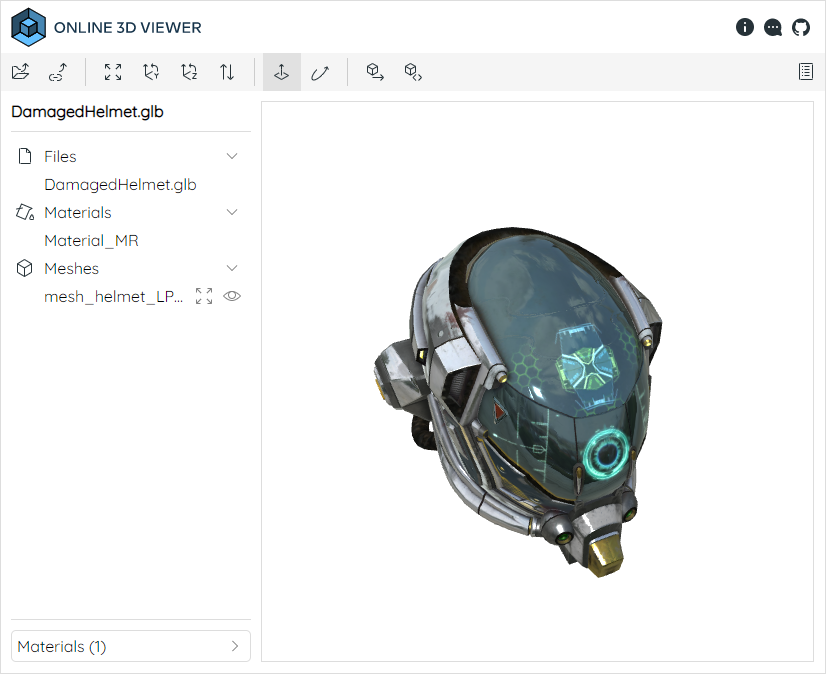
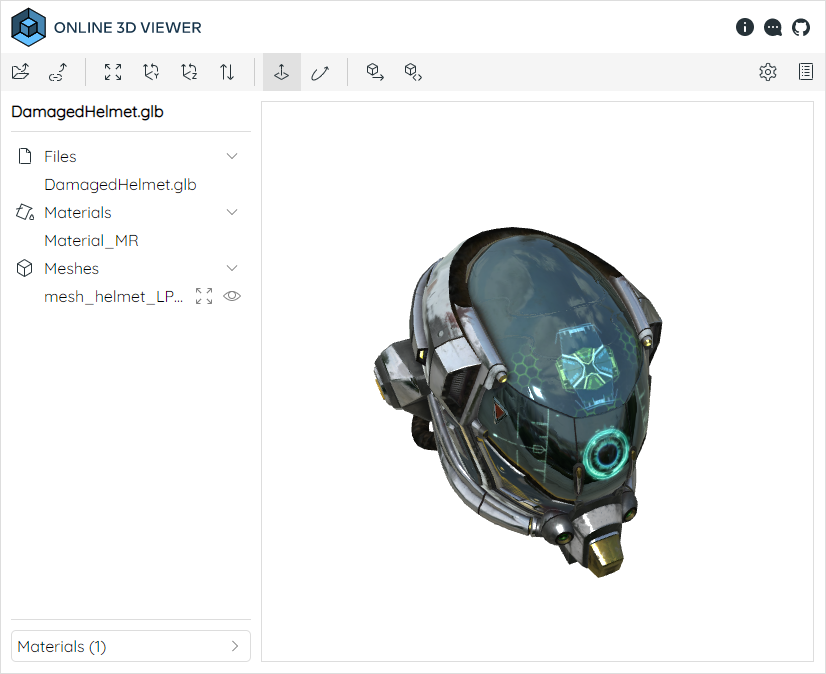
Add warning to setting panel.

diff --git a/website/o3dv/js/settingssidebarpanel.js b/website/o3dv/js/settingssidebarpanel.js
@@ -5,6 +5,7 @@ OV.SettingsSidebarPanel = class extends OV.SidebarPanel
         super (parentDiv);
         this.backgroundColorInput = null;
         this.defaultColorInput = null;
+        this.defaultColorWarning = null;
     }
 
     GetTitle ()
@@ -14,22 +15,24 @@ OV.SettingsSidebarPanel = class extends OV.SidebarPanel
 
     HidePopups ()
     {
-        this.backgroundColorInput.hide ();
-        this.defaultColorInput.hide ();
+        this.backgroundColorInput.pickr.hide ();
+        this.defaultColorInput.pickr.hide ();
     }
 
     InitSettings (settings, defaultSettings, callbacks)
     {
-        this.backgroundColorInput = this.AddColorParameters (
+        this.backgroundColorInput = this.AddColorParameter (
             'Background Color',
             'Changing the background color affects only the visualization.',
+            null,
             ['#ffffff', '#e3e3e3', '#c9c9c9', '#898989', '#5f5f5f', '#494949', '#383838', '#0f0f0f'],
             settings.backgroundColor,
             callbacks.onBackgroundColorChange
         );
-        this.defaultColorInput = this.AddColorParameters (
+        this.defaultColorInput = this.AddColorParameter (
             'Default Color',
             'Default color is used when no material was defined in the file.',
+            'This setting has no effect on the currently loaded model.',
             ['#ffffff', '#e3e3e3', '#cc3333', '#fac832', '#4caf50', '#3393bd', '#9b27b0', '#fda4b8'],
             settings.defaultColor,
             callbacks.onDefaultColorChange
@@ -37,11 +40,21 @@ OV.SettingsSidebarPanel = class extends OV.SidebarPanel
         this.AddResetToDefaultsButton (defaultSettings, callbacks);
     }
 
-    AddColorParameters (title, description, predefinedColors, defaultValue, onChange)
+    Update (model)
+    {
+        let hasDefaultMaterial = OV.HasDefaultMaterial (model);
+        if (!hasDefaultMaterial) {
+            this.defaultColorInput.warning.show ();
+        } else {
+            this.defaultColorInput.warning.hide ();
+        }
+        this.Resize ();
+    }
+
+    AddColorParameter (title, description, warningText, predefinedColors, defaultValue, onChange)
     {
         let contentDiv = $('<div>').addClass ('ov_sidebar_settings_content').appendTo (this.contentDiv);
         let titleDiv = $('<div>').addClass ('ov_sidebar_subtitle').appendTo (contentDiv);
-        $('<div>').addClass ('ov_sidebar_settings_description').html (description).appendTo (contentDiv);
         let colorInput = $('<div>').addClass ('color-picker').addClass ('ov_sidebar_color').appendTo (titleDiv);
         $('<span>').html (title).appendTo (titleDiv);
         const pickr = Pickr.create ({
@@ -77,15 +90,25 @@ OV.SettingsSidebarPanel = class extends OV.SidebarPanel
             );
             onChange (ovColor);
         });
-        return pickr;
+        $('<div>').addClass ('ov_sidebar_settings_description').html (description).appendTo (contentDiv);
+        let warningDiv = null;
+        if (warningText !== null) {
+            warningDiv = $('<div>').addClass ('ov_sidebar_settings_description').appendTo (contentDiv);
+            OV.CreateSvgIcon (warningDiv, 'assets/images/sidebar/warning.svg', 'left_inline');
+            $('<div>').addClass ('ov_sidebar_settings_warning').html (warningText).appendTo (warningDiv);
+        }
+        return {
+            pickr : pickr,
+            warning : warningDiv
+        };
     }
 
     AddResetToDefaultsButton (defaultSettings, callbacks)
     {
         let resetToDefaultsButton = $('<div>').addClass ('ov_button').addClass ('outline').addClass ('ov_sidebar_button').html ('Reset to Default').appendTo (this.contentDiv);
         resetToDefaultsButton.click (() => {
-            this.backgroundColorInput.setColor ('#' + OV.ColorToHexString (defaultSettings.backgroundColor));
-            this.defaultColorInput.setColor ('#' + OV.ColorToHexString (defaultSettings.defaultColor));
+            this.backgroundColorInput.pickr.setColor ('#' + OV.ColorToHexString (defaultSettings.backgroundColor));
+            this.defaultColorInput.pickr.setColor ('#' + OV.ColorToHexString (defaultSettings.defaultColor));
             callbacks.onBackgroundColorChange (defaultSettings.backgroundColor);
             callbacks.onDefaultColorChange (defaultSettings.defaultColor);
         });

diff --git a/website/o3dv/js/website.js b/website/o3dv/js/website.js
@@ -38,6 +38,7 @@ OV.Website = class
             side : THREE.DoubleSide
         });
         this.detailsPanel = null;
+        this.settingsPanel = null;
         this.model = null;
         this.dialog = null;
     }
@@ -133,6 +134,7 @@ OV.Website = class
         this.viewer.AddMeshes (threeMeshes);
         this.viewer.SetUpVector (importResult.upVector, false);
         this.navigator.FillTree (importResult);
+        this.settingsPanel.Update (this.model);
         this.FitModelToWindow (true);
     }
 
@@ -520,10 +522,7 @@ OV.Website = class
         }
 
         this.detailsPanel = new OV.DetailsSidebarPanel (this.parameters.sidebarDiv);
-        let settingsPanel = null;
-        if (OV.FeatureSet.ColorSettings) {
-            settingsPanel = new OV.SettingsSidebarPanel (this.parameters.sidebarDiv);
-        }
+        this.settingsPanel = new OV.SettingsSidebarPanel (this.parameters.sidebarDiv);
 
         let sidebarPanels = [
             {
@@ -532,17 +531,15 @@ OV.Website = class
                 image : 'details',
                 title : 'Details panel',
                 button : null
-            }
-        ];
-        if (OV.FeatureSet.ColorSettings) {
-            sidebarPanels.push ({
+            },
+            {
                 panelId : null,
-                panel : settingsPanel,
+                panel : this.settingsPanel,
                 image : 'settings',
                 title : 'Settings panel',
                 button : null
-            });
-        }
+            }            
+        ];
 
         for (let id = 0; id < sidebarPanels.length; id++) {
             let sidebarPanel = sidebarPanels[id];
@@ -559,29 +556,27 @@ OV.Website = class
             });
         }
 
-        if (OV.FeatureSet.ColorSettings) {
-            let defaultSettings = new OV.WebsiteSettings ();
-            settingsPanel.InitSettings (
-                this.settings,
-                defaultSettings,
-                {
-                    onBackgroundColorChange : (newVal) => {
-                        this.settings.backgroundColor = newVal;
-                        this.settings.SaveToCookies (this.cookieHandler);
-                        this.viewer.SetBackgroundColor (newVal);
-                    },
-                    onDefaultColorChange : (newVal) => {
-                        this.settings.defaultColor = newVal;
-                        this.settings.SaveToCookies (this.cookieHandler);
-                        if (this.modelLoader.defaultMaterial !== null) {
-                            OV.ReplaceDefaultMaterialColor (this.model, newVal);
-                            this.modelLoader.ReplaceDefaultMaterialColor (newVal);
-                        }
-                        this.viewer.Render ();
+        let defaultSettings = new OV.WebsiteSettings ();
+        this.settingsPanel.InitSettings (
+            this.settings,
+            defaultSettings,
+            {
+                onBackgroundColorChange : (newVal) => {
+                    this.settings.backgroundColor = newVal;
+                    this.settings.SaveToCookies (this.cookieHandler);
+                    this.viewer.SetBackgroundColor (newVal);
+                },
+                onDefaultColorChange : (newVal) => {
+                    this.settings.defaultColor = newVal;
+                    this.settings.SaveToCookies (this.cookieHandler);
+                    if (this.modelLoader.defaultMaterial !== null) {
+                        OV.ReplaceDefaultMaterialColor (this.model, newVal);
+                        this.modelLoader.ReplaceDefaultMaterialColor (newVal);
                     }
+                    this.viewer.Render ();
                 }
-            );
-        }
+            }
+        );
 
         let show = this.cookieHandler.GetBoolVal ('ov_show_sidebar', true);
         ShowSidebar (this.sidebar, this.cookieHandler, sidebarPanels, show ? sidebarPanels[0].panelId : null);

diff --git a/website/o3dv/js/sharingdialog.js b/website/o3dv/js/sharingdialog.js
@@ -79,19 +79,14 @@ OV.ShowSharingDialog = function (importer, settings, camera)
             embeddingCodeParams.camera = checked ? camera : null;
             embeddingCodeInput.val (GetEmbeddingCode (embeddingCodeParams));
         });
-        if (OV.FeatureSet.ColorSettings) {
-            AddCheckboxLine (optionsSection, 'Use overridden background color', 'embed_background', (checked) => {
-                embeddingCodeParams.backgroundColor = checked ? settings.backgroundColor : null;
-                embeddingCodeInput.val (GetEmbeddingCode (embeddingCodeParams));
-            });
-            AddCheckboxLine (optionsSection, 'Use overridden default color', 'embed_color', (checked) => {
-                embeddingCodeParams.defaultColor = checked ? settings.defaultColor : null;
-                embeddingCodeInput.val (GetEmbeddingCode (embeddingCodeParams));
-            });
-        } else {
-            embeddingCodeParams.backgroundColor = null;
-            embeddingCodeParams.defaultColor = null;
-        }
+        AddCheckboxLine (optionsSection, 'Use overridden background color', 'embed_background', (checked) => {
+            embeddingCodeParams.backgroundColor = checked ? settings.backgroundColor : null;
+            embeddingCodeInput.val (GetEmbeddingCode (embeddingCodeParams));
+        });
+        AddCheckboxLine (optionsSection, 'Use overridden default color', 'embed_color', (checked) => {
+            embeddingCodeParams.defaultColor = checked ? settings.defaultColor : null;
+            embeddingCodeInput.val (GetEmbeddingCode (embeddingCodeParams));
+        });
         embeddingCodeInput.val (GetEmbeddingCode (embeddingCodeParams));
     }
 

diff --git a/website/o3dv/css/dialogs.css b/website/o3dv/css/dialogs.css
@@ -1,4 +1,3 @@
-
 div.ov_modal_overlay
 {
 	position: absolute;
@@ -103,12 +102,6 @@ div.ov_dialog a.ov_dialog_file_link
 	border-radius: 5px;
 }
 
-div.ov_dialog img.ov_dialog_file_link_icon
-{
-	margin-right: 10px;
-	float: left;
-}
-
 div.ov_dialog div.ov_dialog_file_link_text
 {
 	float: left;
@@ -176,13 +169,6 @@ div.ov_popup div.ov_popup_list_item
 	border-radius: 5px;
 	cursor: pointer;
 	overflow: auto;
-}
-
-div.ov_popup img.ov_popup_list_item_icon
-{
-	margin-right: 10px;
-	margin-top: 2px;
-	float: left;
 }
 
 div.ov_popup div.ov_popup_list_item_icon

diff --git a/website/o3dv/js/exportdialog.js b/website/o3dv/js/exportdialog.js
@@ -215,7 +215,7 @@ OV.ExportDialog = class
             let fileLink = $('<a>').addClass ('ov_dialog_file_link').appendTo (fileList);
             fileLink.attr ('href', url);
             fileLink.attr ('download', file.GetName ());
-            OV.CreateSvgIcon (fileLink, 'assets/images/dialog/file_download.svg', 'ov_dialog_file_link_icon');
+            OV.CreateSvgIcon (fileLink, 'assets/images/dialog/file_download.svg', 'left');
             $('<div>').addClass ('ov_dialog_file_link_text').html (file.GetName ()).appendTo (fileLink);
         }
 

diff --git a/website/o3dv/js/modal.js b/website/o3dv/js/modal.js
@@ -240,7 +240,7 @@ OV.ListPopup = class extends OV.PopupDialog
     {
         let listItemDiv = $('<div>').addClass ('ov_popup_list_item').appendTo (this.listDiv);
         if (item.icon) {
-            OV.CreateSvgIcon (listItemDiv, item.icon, 'ov_popup_list_item_icon');
+            OV.CreateSvgIcon (listItemDiv, item.icon, 'left_inline');
         }
         if (item.color) {
             let iconDiv = $('<div>').addClass ('ov_popup_list_item_icon').appendTo (listItemDiv);

diff --git a/website/o3dv/css/controls.css b/website/o3dv/css/controls.css
@@ -4,6 +4,19 @@ img.ov_svg_icon
 	height: 18px;
 }
 
+img.ov_svg_icon.left
+{
+	margin-right: 10px;
+	float: left;
+}
+
+img.ov_svg_icon.left_inline
+{
+	margin-right: 10px;
+	margin-top: 2px;
+	float: left;
+}
+
 div.ov_thin_scrollbar
 {
 	scrollbar-color: #cccccc transparent;

diff --git a/website/o3dv/css/website.css b/website/o3dv/css/website.css
@@ -244,6 +244,12 @@ div.ov_sidebar_content div.ov_sidebar_settings_description
 {
 	color: #838383;
 	margin: 10px 0px 0px 43px;
+	float: left;
+}
+
+div.ov_sidebar_content div.ov_sidebar_settings_warning
+{
+	margin-left: 30px;
 }
 
 div.ov_sidebar_content button.pcr-button

diff --git a/website/o3dv/js/featureset.js b/website/o3dv/js/featureset.js
@@ -1,4 +1,4 @@
 OV.FeatureSet =
 {
-    ColorSettings : false
+    
 };
